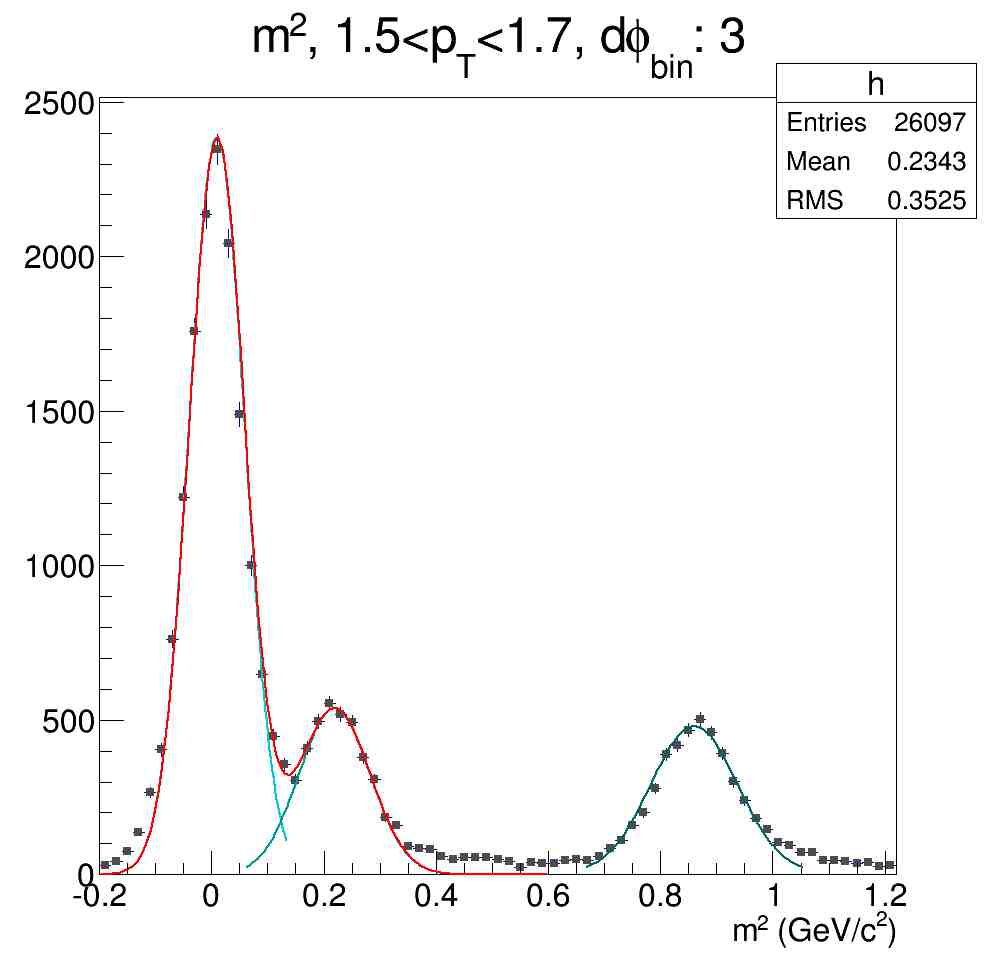
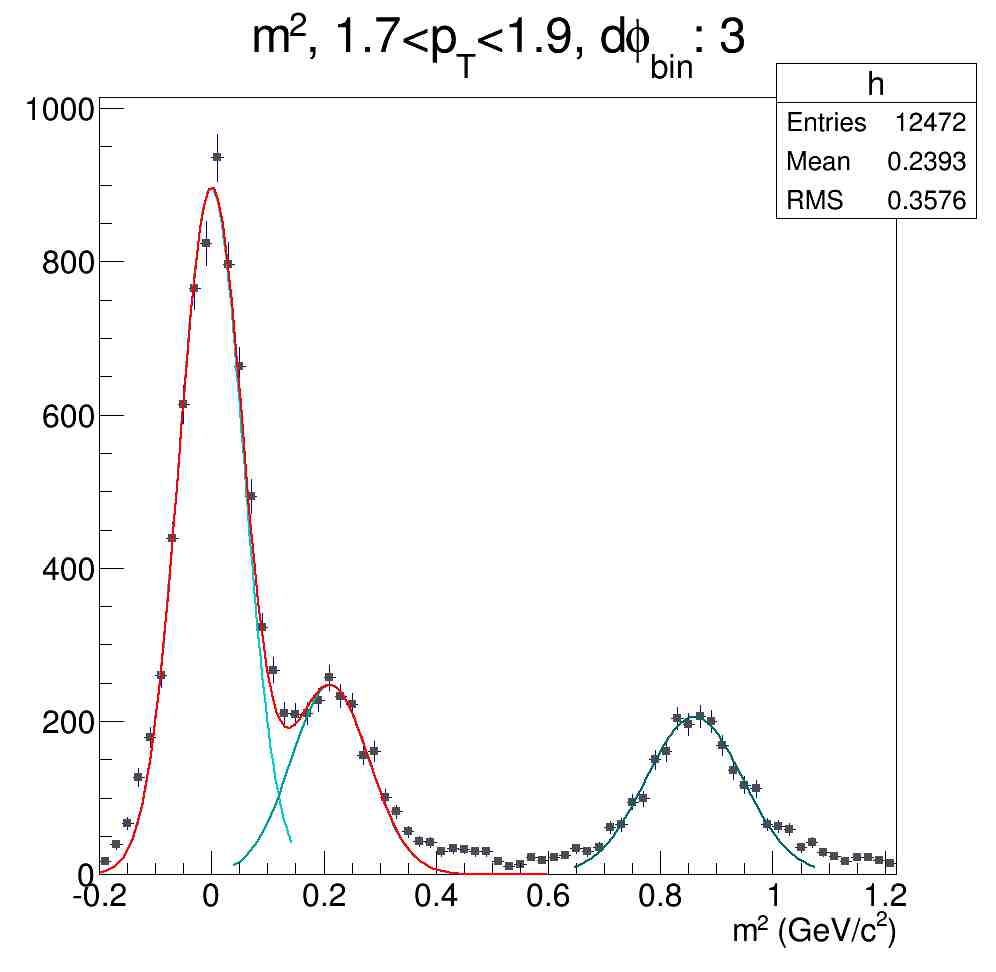
b/u sept 5

diff --git a/drawV2.C b/drawV2.C
@@ -35,6 +35,7 @@ void drawV2()
 
   float v2rawt[12] = {0.054412765, 0.067165588, 0.080514672, 0.093017545, 0.101842096, 0.105409385, 0.100016631, 0.108548677, 0.119417338, 0.102892277, 0.148518644, 0.161019072};
   initParams();
+
   for(int ipt=0;ipt<=14;ipt++) {
     v2pionpos[ipt] = resCorr_r8dA(v2pionpos[ipt],1,0);
     v2kaonpos[ipt] = resCorr_r8dA(v2kaonpos[ipt],1,0);
@@ -64,21 +65,21 @@ v2rawterr[10]=0.000605382;
 v2rawterr[11]=0.000681793;
 
 
-  TGraphErrors *gr_v2pionpos = new TGraphErrors(8,pt,v2pionpos,pterr,v2errpionpos);
-  TGraphErrors *gr_v2kaonpos = new TGraphErrors(8,pt,v2kaonpos,pterr,v2errkaonpos);
-  TGraphErrors *gr_v2protpos = new TGraphErrors(8,pt,v2protpos,pterr,v2errprotpos);
+  TGraphErrors *gr_v2pionpos = new TGraphErrors(15,pt,v2pionpos,pterr,v2errpionpos);
+  TGraphErrors *gr_v2kaonpos = new TGraphErrors(15,pt,v2kaonpos,pterr,v2errkaonpos);
+  TGraphErrors *gr_v2protpos = new TGraphErrors(15,pt,v2protpos,pterr,v2errprotpos);
   TGraphErrors *gr_v2alltpos = new TGraphErrors(12,pt,v2alltpos,pterr,v2erralltpos);
 
-  TGraphErrors *gr_v2pionneg = new TGraphErrors(8,pt,v2pionneg,pterr,v2errpionneg);
-  TGraphErrors *gr_v2kaonneg = new TGraphErrors(8,pt,v2kaonneg,pterr,v2errkaonneg);
-  TGraphErrors *gr_v2protneg = new TGraphErrors(8,pt,v2protneg,pterr,v2errprotneg);
+  TGraphErrors *gr_v2pionneg = new TGraphErrors(15,pt,v2pionneg,pterr,v2errpionneg);
+  TGraphErrors *gr_v2kaonneg = new TGraphErrors(15,pt,v2kaonneg,pterr,v2errkaonneg);
+  TGraphErrors *gr_v2protneg = new TGraphErrors(15,pt,v2protneg,pterr,v2errprotneg);
   TGraphErrors *gr_v2alltneg = new TGraphErrors(12,pt,v2alltneg,pterr,v2erralltneg);
 
   TGraphErrors *gr_v2rawt = new TGraphErrors(12,pt,v2rawt,pterr,v2rawterr);
 
-  c1 = new TCanvas("c1","c1",2000,1500);
+  c1 = new TCanvas("c1","c1",3000,2000);
   c1->cd();
-  drawFrame(0,0,5,0.5,"Transverse Momentum (GeV/c)","elliptic flow (v_{2})");
+  drawFrame(0,0,5,0.3,"Transverse Momentum (GeV/c)","elliptic flow (v_{2})");
   //drawTitle(.1,-.07,"Identified Particle Elliptic Flow (v_{2}), TOF.W + ACC",1,12,.03,0);
   drawTitle(.1,-.07,"Charged Track Elliptic Flow (v_{2})",1,12,.03,0);
   //gr_v2pion->RemovePoint(13);
@@ -178,33 +179,34 @@ v2pionpos[7] = 0.0336751;      v2errpionpos[7] = 0.000363713;
 v2kaonpos[7] = 0.0393055;      v2errkaonpos[7] = 0.000551467;
 v2protpos[7] = 0.046838;     v2errprotpos[7] = 0.000337257;
 
-v2pionpos[8] = 0.0298951;     v2errpionpos[8] = 0.0004699;
-v2kaonpos[8] = 0.0396922;     v2errkaonpos[8] = 0.000669895;
-v2protpos[8] = 0.046966;      v2errprotpos[8] = 0.000632564;
+v2pionpos[8] = 0.0326042;      v2errpionpos[8] = 0.000468384;
+v2kaonpos[8] = 0.0396922;      v2errkaonpos[8] = 0.000669895;
+v2protpos[8] = 0.046966;     v2errprotpos[8] = 0.000632564;
 
-v2pionpos[9] = 0.0275577;     v2errpionpos[9] = 0.000650622;
-v2kaonpos[9] = 0.0369777;     v2errkaonpos[9] = 0.00081272;
-v2protpos[9] = 0.0476927;     v2errprotpos[9] = 0.000769387;
+v2pionpos[9] = 0.0326037;      v2errpionpos[9] = 0.000647512;
+v2kaonpos[9] = 0.0360695;      v2errkaonpos[9] = 0.000810233;
+v2protpos[9] = 0.047532;     v2errprotpos[9] = 0.000769459;
 
-v2pionpos[10] = 0.0278351;    v2errpionpos[10] = 0.0211714;
-v2kaonpos[10] = 0.03378;      v2errkaonpos[10] = 0.00169447;
-v2protpos[10] = 0.0456037;    v2errprotpos[10] = 0.00202961;
+v2pionpos[10] = 0.0327988;     v2errpionpos[10] = 0.00184278;
+v2kaonpos[10] = 0.03378;     v2errkaonpos[10] = 0.00169447;
+v2protpos[10] = 0.0456037;     v2errprotpos[10] = 0.00202961;
 
-v2pionpos[11] = 0.0282585;    v2errpionpos[11] = 0.00244153;
-v2kaonpos[11] = 0.0346992;    v2errkaonpos[11] = 0.00430782;
-v2protpos[11] = 0.0435877;    v2errprotpos[11] = 0.00491859;
+v2pionpos[11] = 0.0335232;     v2errpionpos[11] = 0.00241892;
+v2kaonpos[11] = 0.0341182;     v2errkaonpos[11] = 0.0043093;
+v2protpos[11] = 0.0433872;     v2errprotpos[11] = 0.00491914;
 
-v2pionpos[12] = 0.0248839;    v2errpionpos[12] = 0.00473314;
-v2kaonpos[12] = 0.0361253;    v2errkaonpos[12] = 0.0024278;
-v2protpos[12] = 0.0434931;    v2errprotpos[12] = 0.00303396;
+v2pionpos[12] = 0.0329689;     v2errpionpos[12] = 0.00474479;
+v2kaonpos[12] = 0.0339862;     v2errkaonpos[12] = 0.00242974;
+v2protpos[12] = 0.043666;    v2errprotpos[12] = 0.003034;
 
-v2pionpos[13] = 0.030272;      v2errpionpos[13] = 0.00644539;
-v2kaonpos[13] = 0.0890235;     v2errkaonpos[13] = 0.00970629;
-v2protpos[13] = 0.0213572;     v2errprotpos[13] = 0.00357928;
+v2pionpos[13] = 0.0316514;     v2errpionpos[13] = 0.00778246;
+v2kaonpos[13] = 0.0344744;     v2errkaonpos[13] = 0.00809327;
+v2protpos[13] = 0.0441567;     v2errprotpos[13] = 0.00361229;
 
-v2pionpos[14] = 0.025759;     v2errpionpos[14] = 0.00888207;
-v2kaonpos[14] = 0.0340744;    v2errkaonpos[14] = 0.00449614;
-v2protpos[14] = 0.0631675;    v2errprotpos[14] = 0.006439;
+
+v2pionpos[14] = 0.0317127;     v2errpionpos[14] = 0.00883035;
+v2kaonpos[14] = 0.0342252;     v2errkaonpos[14] = 0.00824922;
+v2protpos[14] = 0.0467843;     v2errprotpos[14] = 0.0043356;
 
 ///////////////////////////////////////////////////////////////////////////Neg v2s begin here///////////////////////////////////////////
 
@@ -238,40 +240,43 @@ v2pionneg[5] = 0.0309382;      v2errpionneg[5] = 9.7712e-005;
 v2kaonneg[5] = 0.039378;     v2errkaonneg[5] = 0.000187254;
 v2protneg[5] = 0.0368732;    v2errprotneg[5] = 0.000338683;
 
-v2alltneg[6] = 0.0330857;      v2erralltneg[6] = 0.000251937;
-v2pionneg[6] = 0.03046;      v2errpionneg[6] = 0.000317745;
-v2kaonneg[6] = 0.0273039;      v2errkaonneg[6] = 0.000610792;
-v2protneg[6] = 0.0466697;    v2errprotneg[6] = 0.000553187;
+v2alltneg[6] = 0.0366022;      v2erralltneg[6] = 7.68003e-005;
+v2pionneg[6] = 0.0323751;      v2errpionneg[6] = 0.000162868;
+v2kaonneg[6] = 0.0394184;      v2errkaonneg[6] = 0.000301149;
+v2protneg[6] = 0.0465922;    v2errprotneg[6] = 0.00028577;
 
-v2alltneg[7] = 0.0403298;      v2erralltneg[7] = 0.000292584;
-v2pionneg[7] = 0.0353522;      v2errpionneg[7] = 0.00034218;
-v2kaonneg[7] = 0.0528272;      v2errkaonneg[7] = 0.000557646;
-v2protneg[7] = 0.0380506;    v2errprotneg[7] = 0.00067613;
+v2alltneg[7] = 0.0372947;      v2erralltneg[7] = 0.000293688;
+v2pionneg[7] = 0.033127;     v2errpionneg[7] = 0.000343079;
+v2kaonneg[7] = 0.0411851;      v2errkaonneg[7] = 0.000558054;
+v2protneg[7] = 0.0464645;    v2errprotneg[7] = 0.000680168;
 
-v2pionneg[8] = 0.0282388;      v2errpionneg[8] = 0.000504408;
-v2kaonneg[8] = 0.0399862;     v2errkaonneg[8] = 0.000628708;
-v2protneg[8] = 0.0508686;     v2errprotneg[8] = 0.000653833;
+v2pionneg[8] = 0.0335825;      v2errpionneg[8] = 0.000504641;
+v2kaonneg[8] = 0.0389648;      v2errkaonneg[8] = 0.000622305;
+v2protneg[8] = 0.0472923;    v2errprotneg[8] = 0.00065327;
 
-v2pionneg[9] = 0.0294254;      v2errpionneg[9] = 0.000733668;
-v2kaonneg[9] = 0.0400348;      v2errkaonneg[9] = 0.000879399;
-v2protneg[9] = 0.0472006;    v2errprotneg[9] = 0.000866769;
+v2pionneg[9] = 0.0335367;      v2errpionneg[9] = 0.00073306;
+v2kaonneg[9] = 0.0373682;      v2errkaonneg[9] = 0.000883844;
+v2protneg[9] = 0.0472011;    v2errprotneg[9] = 0.000866766;
 
-v2pionneg[10] = 0.0297185;     v2errpionneg[10] = 0.00161919;
-v2kaonneg[10] = 0.0352589;     v2errkaonneg[10] = 0.00203679;
-v2protneg[10] = 0.0464441;     v2errprotneg[10] = 0.00258222;
+v2pionneg[10] = 0.033089;      v2errpionneg[10] = 0.00159797;
+v2kaonneg[10] = 0.0356833;     v2errkaonneg[10] = 0.00193603;
+v2protneg[10] = 0.0472947;     v2errprotneg[10] = 0.00244889;
 
-v2kaonneg[11] = 0.0331489;     v2errkaonneg[11] = 0.00440734;
-v2protneg[11] = 0.0460766;     v2errprotneg[11] = 0.00596628;
+v2pionneg[11] = 0.0321075;     v2errpionneg[11] = 0.00251042;
+v2kaonneg[11] = 0.0337351;     v2errkaonneg[11] = 0.00439436;
+v2protneg[11] = 0.0442228;     v2errprotneg[11] = 0.00595987;
 
+v2pionneg[12] = 0.0321625;     v2errpionneg[12] = 0.00477656;
 v2kaonneg[12] = 0.0333368;     v2errkaonneg[12] = 0.00519813;
-v2protneg[12] = 0.0469274;     v2errprotneg[12] = 0.0065295;
+v2protneg[12] = 0.0430611;     v2errprotneg[12] = 0.00652144;
 
-v2pionneg[13] = 0.0336624;     v2errpionneg[13] = 0.00204244;
-v2kaonneg[13] = 0.065236;      v2errkaonneg[13] = 0.0159537;
-v2protneg[13] = 0.075951;      v2errprotneg[13] = 0.00600602;
+v2pionneg[13] = 0.0339533;     v2errpionneg[13] = 0.00438491;
+v2kaonneg[13] = 0.0356072;     v2errkaonneg[13] = 0.0162713;
+v2protneg[13] = 0.0412724;     v2errprotneg[13] = 0.0049791;
 
-v2kaonneg[14] = 0.0346352;     v2errkaonneg[14] = 0.00414226;
-v2protneg[14] = 0.0534996;     v2errprotneg[14] = 0.0085335;
+v2pionneg[14] = 0.0324945;     v2errpionneg[14] = 0.00467284;
+v2kaonneg[14] = 0.0342532;     v2errkaonneg[14] = 0.00725964;
+v2protneg[14] = 0.043748;    v2errprotneg[14] = 0.00591164;
 
 float pt;
 

diff --git a/fitTuningParsNeg.C b/fitTuningParsNeg.C
@@ -209,7 +209,7 @@ parstruct loadFitParamsNeg(int ptbin) {
   if(ptbin == 6) {
     cout << "Loading params for ptbin " << ptbin << "..." << endl;    
     float ptrange[2] = {1.7,1.9};
-    int    Nrebin            = 4;
+    int    Nrebin            = 2;
     int    kUseLogLowBins    = 0;
     int    twogausfit        = 1;
     int    threegausfit      = 0;
@@ -224,14 +224,14 @@ parstruct loadFitParamsNeg(int ptbin) {
     float  pionfitrange[2]   = {-0.05,0.05};
     float  kaonfitrange[2]   = {0.15,0.3};
     float  protfitrange[2]   = {0.7,1.0};
-    float tunepionheight[6] = {0.93,0.93,0.96,0.93,0.98,0.98};
-    float tunepionwidth[6]  = {0.85,0.87,0.86,0.85,0.86,0.87};
+    float tunepionheight[6] = {0.95,0.95,0.95,0.93,0.95,0.96};
+    float tunepionwidth[6]  = {0.85,0.89,0.86,0.85,0.86,0.87};
     float tunepionmean[6]   = {-0.01,-0.01,-0.01,-0.01,-0.01,-0.01};
-    float tunekaonheight[6] = {1.13,1.1,1.08,1.1,1.13,1.11};
-    float tunekaonwidth[6]  = {0.99,0.94,1,0.93,0.93,0.97};
-    float tunekaonmean[6]   = {-0.03,-0.025,-0.02,-0.025,-0.025,-0.02};
-    float tuneprotheight[6] = {1.04,1.02,1.0,0.98,1.0,1.07};
-    float tuneprotwidth[6]  = {1.05,0.95,1,0.94,1.0,1.05};
+    float tunekaonheight[6] = {1.16,1.12,1.09,1.1,1.16,1.11};
+    float tunekaonwidth[6]  = {0.99,0.94,0.98,0.93,1,0.97};
+    float tunekaonmean[6]   = {-0.02,-0.025,-0.02,-0.025,-0.025,-0.02};
+    float tuneprotheight[6] = {1.04,1.02,1.0,0.99,1.0,1.06};
+    float tuneprotwidth[6]  = {1.05,0.95,1,0.96,1.0,1.0};
     float tuneprotmean[6]   = {0,0,0.0,0,0.0,0};
     
   }
@@ -254,14 +254,14 @@ parstruct loadFitParamsNeg(int ptbin) {
     float  pionfitrange[2]   = {-0.05,0.05};
     float  kaonfitrange[2]   = {0.15,0.3};
     float  protfitrange[2]   = {0.75,0.95};
-    float tunepionheight[6] = {0.89,0.87,0.87,0.91,0.88,0.91};
-    float tunepionwidth[6]  = {0.8,0.76,0.8,0.8,0.8,0.8};
-    float tunepionmean[6]   = {-0.01,-0.01,-0.01,-0.01,-0.01,-0.01};
-    float tunekaonheight[6] = {1.31,1.36,1.24,1.33,1.41,1.37};
-    float tunekaonwidth[6]  = {1,0.96,0.92,0.97,1.05,1};
-    float tunekaonmean[6]   = {-0.05,-0.055,-0.042,-0.05,-0.052,-0.05};
-    float tuneprotheight[6] = {1.05,1.03,1.05,1.04,1.03,1.11};
-    float tuneprotwidth[6]  = {1.04,1.0,1.04,1.02,1.04,1.1};
+    float tunepionheight[6] = {0.89,0.87,0.88,0.89,0.88,0.9};
+    float tunepionwidth[6]  = {0.82,0.8,0.8,0.78,0.8,0.8};
+    float tunepionmean[6]   = {-0.01,-0.01,-0.01,-0.01,-0.02,-0.01};
+    float tunekaonheight[6] = {1.31,1.34,1.26,1.35,1.41,1.35};
+    float tunekaonwidth[6]  = {1,0.93,0.94,0.99,1.05,1};
+    float tunekaonmean[6]   = {-0.05,-0.051,-0.042,-0.05,-0.052,-0.05};
+    float tuneprotheight[6] = {0.99,1.03,1.04,1.04,1.06,1.09};
+    float tuneprotwidth[6]  = {1.0,1.0,1.02,1.0,1.04,1.08};
     float tuneprotmean[6]   = {0.001,0.001,0.001,0.001,0.001,0.001};
   }
 

diff --git a/fitInit.C b/fitInit.C
@@ -112,7 +112,7 @@ int setTuning;
 //20    4.5   4.7
 //21    4.7   4.9
 //22    4.9   5.1
-  int ptbin = 5;
+  int ptbin = 6;
 
 //manually override final fit params by visual
 
